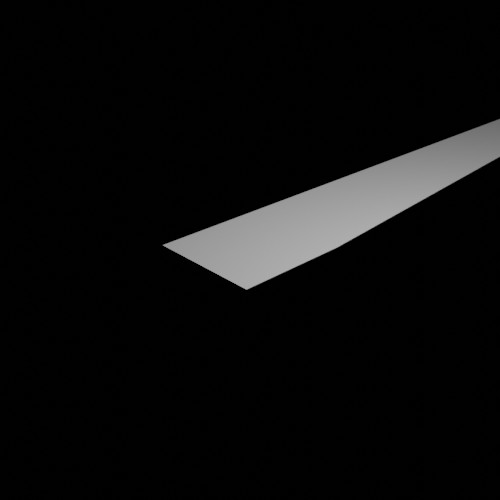
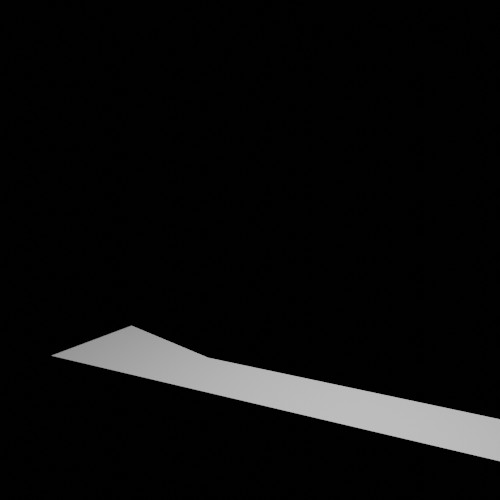
added hand tracking facility

Changed region(s): [[0.09, 0.63, 1.0, 0.93], [0.33, 0.24, 1.0, 0.6]]

diff --git a/hand_detector.py b/hand_detector.py
@@ -1,0 +1,113 @@
+import cv2
+import mediapipe as mp
+import numpy as np
+
+
+class hand_detector:
+    """
+    This will detect 20 points of hands in the image/video stream with the help of
+    mediapipe(a build-in python package for hand tracking/detecting).
+    """
+    def __init__(self, static_image_mode=False, max_hands=2, min_detection_confidence=0.5, min_tracking_confidence=0.5):
+        """
+        :param static_image_mode: True or false.
+        :param max_hands: My number of hands for tracking.
+        :param min_detection_confidence: fraction- if detction confidence go to below 50% it will detect again.
+        :param min_tracking_confidence: fraction - if tracking confidence go to below 50% it will track again
+
+        This will initialize the basic objects for tracking and drawing hand points.
+        """
+        self.mp_hand = mp.solutions.hands
+        self.hands = self.mp_hand.Hands(static_image_mode, max_hands, min_detection_confidence, min_tracking_confidence)
+        self.draw_utils = mp.solutions.drawing_utils
+        
+    def detect_hand(self, img, draw_points=True):
+        """
+        :param img: img need to be processed.
+        :param draw_points: want to draw the connection lines or not.
+
+        Find the hand landmarks and draw the hand connection lines if 'draw_points' is true.
+        """
+        # change the image to RBG. It can only process the RGB images, the imag from imread is BGR.
+        img_rbg = cv2.cvtColor(img, cv2.COLOR_BGR2RGB)
+        self.processed_img = self.hands.process(img_rbg)
+        # print(self.processed_img.multi_hand_landmarks)
+
+        # get the landmarks.
+        self.multi_hand_landmark = self.processed_img.multi_hand_landmarks
+        is_hand_detected = (self.processed_img.multi_hand_landmarks != None)
+
+        if self.multi_hand_landmark != None:
+            for landmark in self.multi_hand_landmark:
+                if draw_points:
+                    self.draw_utils.draw_landmarks(img, landmark,
+                                               self.mp_hand.HAND_CONNECTIONS)
+        return (img, is_hand_detected)
+
+    def get_landmark_array(self, img, hand_no = 0, draw_tip = True):
+        """
+        :param img: Image to find the hand landmarks.
+        :param hand_no: Which hand to find the landmark.
+        :param draw_tip: Truw if want to draw a circle in tump tip.
+        :return hand_array: numpy array having the 21 point's (x,y) value.
+
+        Get the landmark array with all 20 point's x and y pixcels
+        """
+        hand_array = []
+        if self.multi_hand_landmark != None:
+            my_hand = self.multi_hand_landmark[hand_no]
+            for id, landmark in enumerate(my_hand.landmark):
+                # print(id,landmark)
+                h, w, c = img.shape
+
+                # convert it to a pixcel value, because comming landmark is a fraction of image.
+                pixcel_x, pixcel_y = int(landmark.x * w), int(landmark.y * h)
+                hand_array.append([id, pixcel_x, pixcel_y])
+
+            if draw_tip:
+                    cv2.circle(img, (hand_array[4][1], hand_array[4][2]), 10, (255, 0, 255), cv2.FILLED)
+        #print(hand_array)
+        return np.array(hand_array)
+
+    def draw_rectangle_hand(self, img, hand_points_array, draw_rectangle=True, crop_hand=True):
+        """
+        
+        """
+        # if the hand is vertical.
+        # i need 4 points to crop the hand x1,x2,y1,y2. --> y2 is the point 0's y value + 5 pixcel.
+
+        x1,x2 = np.min(hand_points_array[:,1]) - 25,np.max(hand_points_array[:,1]) + 25
+        y1,y2 = np.min(hand_points_array[:,2]) - 25,np.max(hand_points_array[:,2]) + 25
+        points = [(x1,y1), (x2,y2)]
+        if draw_rectangle:
+            cv2.rectangle(img=img, pt1=points[0], pt2=points[1], color=(255,0,0), thickness=3)
+        if crop_hand:
+            hand_img = img[points[0][1]:points[1][1], points[0][0]:points[1][0]]
+            return hand_img
+        return img
+
+
+
+
+
+
+"""vedio_capture = cv2.VideoCapture(0)
+
+hand_detector = hand_detector(max_hands=1)
+while -1:
+    _,img = vedio_capture.read()
+
+    img = hand_detector.detect_hand(img,draw_points=False)
+    points_array = hand_detector.get_landmark_array(img)
+
+    cv2.imshow("image frame",img)
+
+    
+    if cv2.waitKey(1) & 0xFF == ord('q'):
+        break
+
+vedio_capture.release()
+cv2.destroyAllWindows()"""
+
+# a = [[0, 65, 454], [1, 83, 396], [2, 115, 347], [3, 153, 323], [4, 179, 315], [5, 85, 299], [6, 171, 296], [7, 171, 324], [8, 150, 336], [9, 87, 328], [10, 181, 330], [11, 173, 354], [12, 149, 360], [13, 96, 363], [14, 181, 361], [15, 172, 380], [16, 148, 385], [17, 109, 403], [18, 172, 392], [19, 162, 404], [20, 142, 409]]
+# hand_detector().draw_rectangle_hand(np.array(a))

diff --git a/opencv_move_plane.py b/opencv_move_plane.py
@@ -1,48 +1,59 @@
 import cv2
 import socket 
 
+from hand_detector import hand_detector
+
 # define the blender server host and port
 host = ""  # The server's hostname or IP address
 port = 49411 
 
 # start the video capture.
 video_capture = cv2.VideoCapture(0)
+hand_detector_obj = hand_detector(max_hands=1)
 
-# check the video capture is opened.
-if not video_capture.isOpened():
-    raise Exception("Could not open video device")
-# set the video frame width adn height.
-video_capture.set(cv2.CAP_PROP_FRAME_WIDTH, 720)
-video_capture.set(cv2.CAP_PROP_FRAME_HEIGHT, 1280)
-video_capture.set(cv2.CAP_PROP_FPS, 25)
+def get_vertext_value(vertext_value_list):
+    """
+    Convert the actual (x,y) value to 500,500 tracking area (x,y) values.( convert the pixcel image value to blender point value)
+    """
+
 
 while True:
     ret, frame = video_capture.read()
-    # things wnat to happen in the loop. 1) get the vertex input 
-    print(frame.shape)
+    # print(frame.shape)
 
     # change the frame size.
-    frame = cv2.resize(frame, (1000,500), interpolation = cv2.INTER_AREA)
-    print(frame.shape)
+    frame = cv2.resize(frame, (1280,720), interpolation = cv2.INTER_AREA)
+    # print(frame.shape)
 
-    # getting that image from the blender.
-    # call the blender with the blend file and blend script.
-    print("calling the blender")
-    # define a client to communicate with blender server.
-    with socket.socket(socket.AF_INET, socket.SOCK_STREAM) as s:
-        s.connect((host, port))
-        s.sendall("[[],[],[0.0,1.0,0.0,0.0],[]]".encode())
-        data = s.recv(1024)
-    # print("return code", return_code)
-    # if return_code == 0: # if 0 means no errors.
-        # if 0, then the image from the blender is saved in this folder ... we can overlay that image to frame.
-    blender_plane_img = cv2.imread("img.jpg")
-        # print(blender_plane_img.shape) --> (100,100,3)
-    frame[0:500,0:500] = blender_plane_img
+    img, is_hand_detected = hand_detector_obj.detect_hand(frame,draw_points=False)
+    if is_hand_detected:
+        points_array = hand_detector_obj.get_landmark_array(img, draw_tip = False)
+        # do tracking when the index finger is up. ( Index finger id in mediapipe is 8)
+        if points_array[8][2] < points_array[6][2]:
+            # Draw the index finger tip for tracking.
+            print("Tracking.....")
+            cv2.circle(img, (points_array[8][1], points_array[8][2]), 10, (255,0,0), cv2.FILLED)
 
-    cv2.namedWindow('resized window', cv2.WINDOW_NORMAL)
-    cv2.resizeWindow('resized window', 1000,500)
-    cv2.imshow("resized window", frame)
+            # call the blender with the blend file and blend script.
+            print("calling the blender")
+            vertex_value = get_vertext_value([[],[float(points_array[8][1]), float(points_array[8][2]), 0.0],[],[]]) # should be like [[x,y,z],[],[],[]]
+            
+            print(vertex_value, "vertex point got")
+            # define a client to communicate with blender server.
+            with socket.socket(socket.AF_INET, socket.SOCK_STREAM) as s:
+                s.connect((host, port))
+                s.sendall(str(vertex_value).encode())
+                data = s.recv(1024)
+
+            blender_plane_img = cv2.imread("img.jpg")
+            frame[0:500,0:500] = blender_plane_img
+
+        else:
+            print("do nothing")
+
+    
+
+    cv2.imshow("resized window", img)
 
     if cv2.waitKey(1) & 0xFF == ord('q'):
         # end the blender server.

diff --git a/blender_move_plane_socket.py b/blender_move_plane_socket.py
@@ -31,10 +31,6 @@ def move(ver_value_list):
     
     # set te image resolution
     w, h = 500,500
-    # image = bpy.types.images
-    # scene=bpy.context.scene
-    # scene.render.image_settings.file_format='JPEG'
-    # image.save_render(os.path.join(output_dir, "img.jpg") ,scene)
 
     # change the sample render size in render properties.
     bpy.context.scene.eevee.taa_render_samples = 32
@@ -44,22 +40,27 @@ def move(ver_value_list):
 
     # Disable soft shadow at shadows at render properties.
     bpy.context.scene.eevee.use_soft_shadows = False
-
     bpy.context.scene.eevee.sss_samples = 4
-
     bpy.context.scene.eevee.volumetric_samples = 32
-
     bpy.context.scene.render.simplify_gpencil_antialiasing = False
-
     # Disable the shadow in the visibility Display at Object properties.
     bpy.context.object.display.show_shadows = False
 
-    bpy.context.scene.render.image_settings.file_format='PNG'
-    bpy.context.scene.render.image_settings.color_mode ='RGBA'
+    # setting for transperacy.
+    #bpy.context.scene.render.image_settings.file_format='PNG'
+    #bpy.context.scene.render.image_settings.color_mode ='RGBA'
     bpy.context.scene.render.film_transparent = True
+
     bpy.context.scene.render.resolution_x = w #perhaps set resolution in code
     bpy.context.scene.render.resolution_y = h
     bpy.context.scene.render.resolution_percentage = 100
+
+    # Set the camera view settings.
+    bpy.data.objects['Camera'].data.shift_x = 0.24 # move camera to left-right position.
+    bpy.data.objects['Camera'].data.shift_y = 0.22 # move camera up-bottom position.
+    bpy.data.objects['Camera'].data.sensor_width = 40 # camera focus.
+    
+    # save the image.
     bpy.context.scene.render.filepath = os.path.join(output_dir, "img.jpg")
     bpy.ops.render.render(write_still=True)
     print("image saved")
@@ -97,3 +98,21 @@ def start_server():
 
 if __name__ == "__main__":
     start_server()
+
+
+
+
+w,h = 500, 500
+output_dir = "/home/pavithra/Pictures/learning/blender/opencv_live_movement_checking/"
+bpy.context.scene.render.resolution_x = w #perhaps set resolution in code
+bpy.context.scene.render.resolution_y = h
+bpy.context.scene.render.resolution_percentage = 100
+
+bpy.context.object["Cameras"].data.shift_x = 0.24
+bpy.context.object.data.shift_y = 0.22
+bpy.context.object.data.sensor_width = 40
+    
+ # save the image.
+bpy.context.scene.render.filepath = os.path.join(output_dir, "img.jpg")
+bpy.ops.render.render(write_still=True)
+print("image saved")

diff --git a/check.py b/check.py
@@ -1,0 +1,9 @@
+import cv2
+video_capture = cv2.VideoCapture(0)
+video_capture.set(3, 1280)
+video_capture.set(4, 720)
+
+while True:
+    suceess, frame = video_capture.read()
+    cv2.imshow("image", frame)
+    cv2.waitKey(0)
